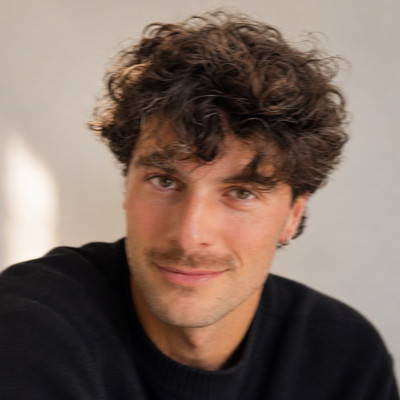
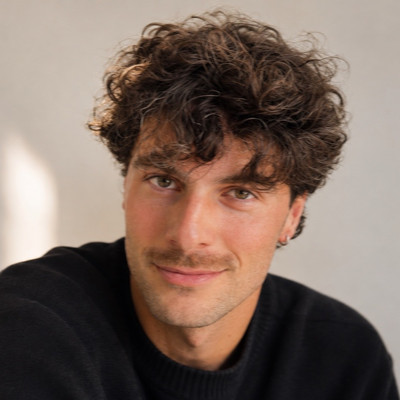
The sharper photo

diff --git a/index.html b/index.html
@@ -44,7 +44,7 @@
       "jobTitle": "Postdoctoral Research Fellow",
       "description": "Investigates the hidden costs of AI: the electricity, carbon and water of U.S. data centers, the air pollution and health effects of the power plants that run them, and who pays.",
       "url": "https://gianguidi.github.io/",
-      "image": "https://gianguidi.github.io/assets/img/gianluca.jpg?v=5e50df9",
+      "image": "https://gianguidi.github.io/assets/img/gianluca.jpg?v=1662b2f",
       "email": "mailto:ggianluca@hsph.harvard.edu",
       "affiliation": [{"@type": "Organization", "name": "Harvard T.H. Chan School of Public Health"}],
       "colleague": [{"@type": "Person", "name": "Francesca Dominici", "url": "https://scholar.google.com/citations?hl=en&user=RSwElNMAAAAJ"}],
@@ -82,7 +82,7 @@
   <meta name="robots" content="noimageindex" />
   <meta property="og:title" content="Gianluca Guidi" />
   <meta property="og:description" content="I investigate the hidden costs of AI: the energy, carbon and water of data centers, their toll on health, and who pays." />
-  <meta property="og:image" content="https://gianguidi.github.io/assets/img/gianluca.jpg?v=5e50df9" />
+  <meta property="og:image" content="https://gianguidi.github.io/assets/img/gianluca.jpg?v=1662b2f" />
   <meta property="og:url" content="https://gianguidi.github.io/" />
   <meta name="twitter:card" content="summary" />
   <meta name="color-scheme" content="light" />
@@ -112,7 +112,7 @@
   <main class="page" id="top">
     <header class="intro">
       <button class="avatar" type="button" aria-label="Photo of Gianluca Guidi. Click to say hi">
-        <img src="assets/img/avatar.jpg?v=5e50df9" alt="Gianluca Guidi" width="400" height="400" draggable="false" />
+        <img src="assets/img/avatar.jpg?v=1662b2f" alt="Gianluca Guidi" width="400" height="400" draggable="false" />
       </button>
       <!-- click the photo and it says hi: in your language first, then around the world -->
       <span class="hi" aria-live="polite"></span>
